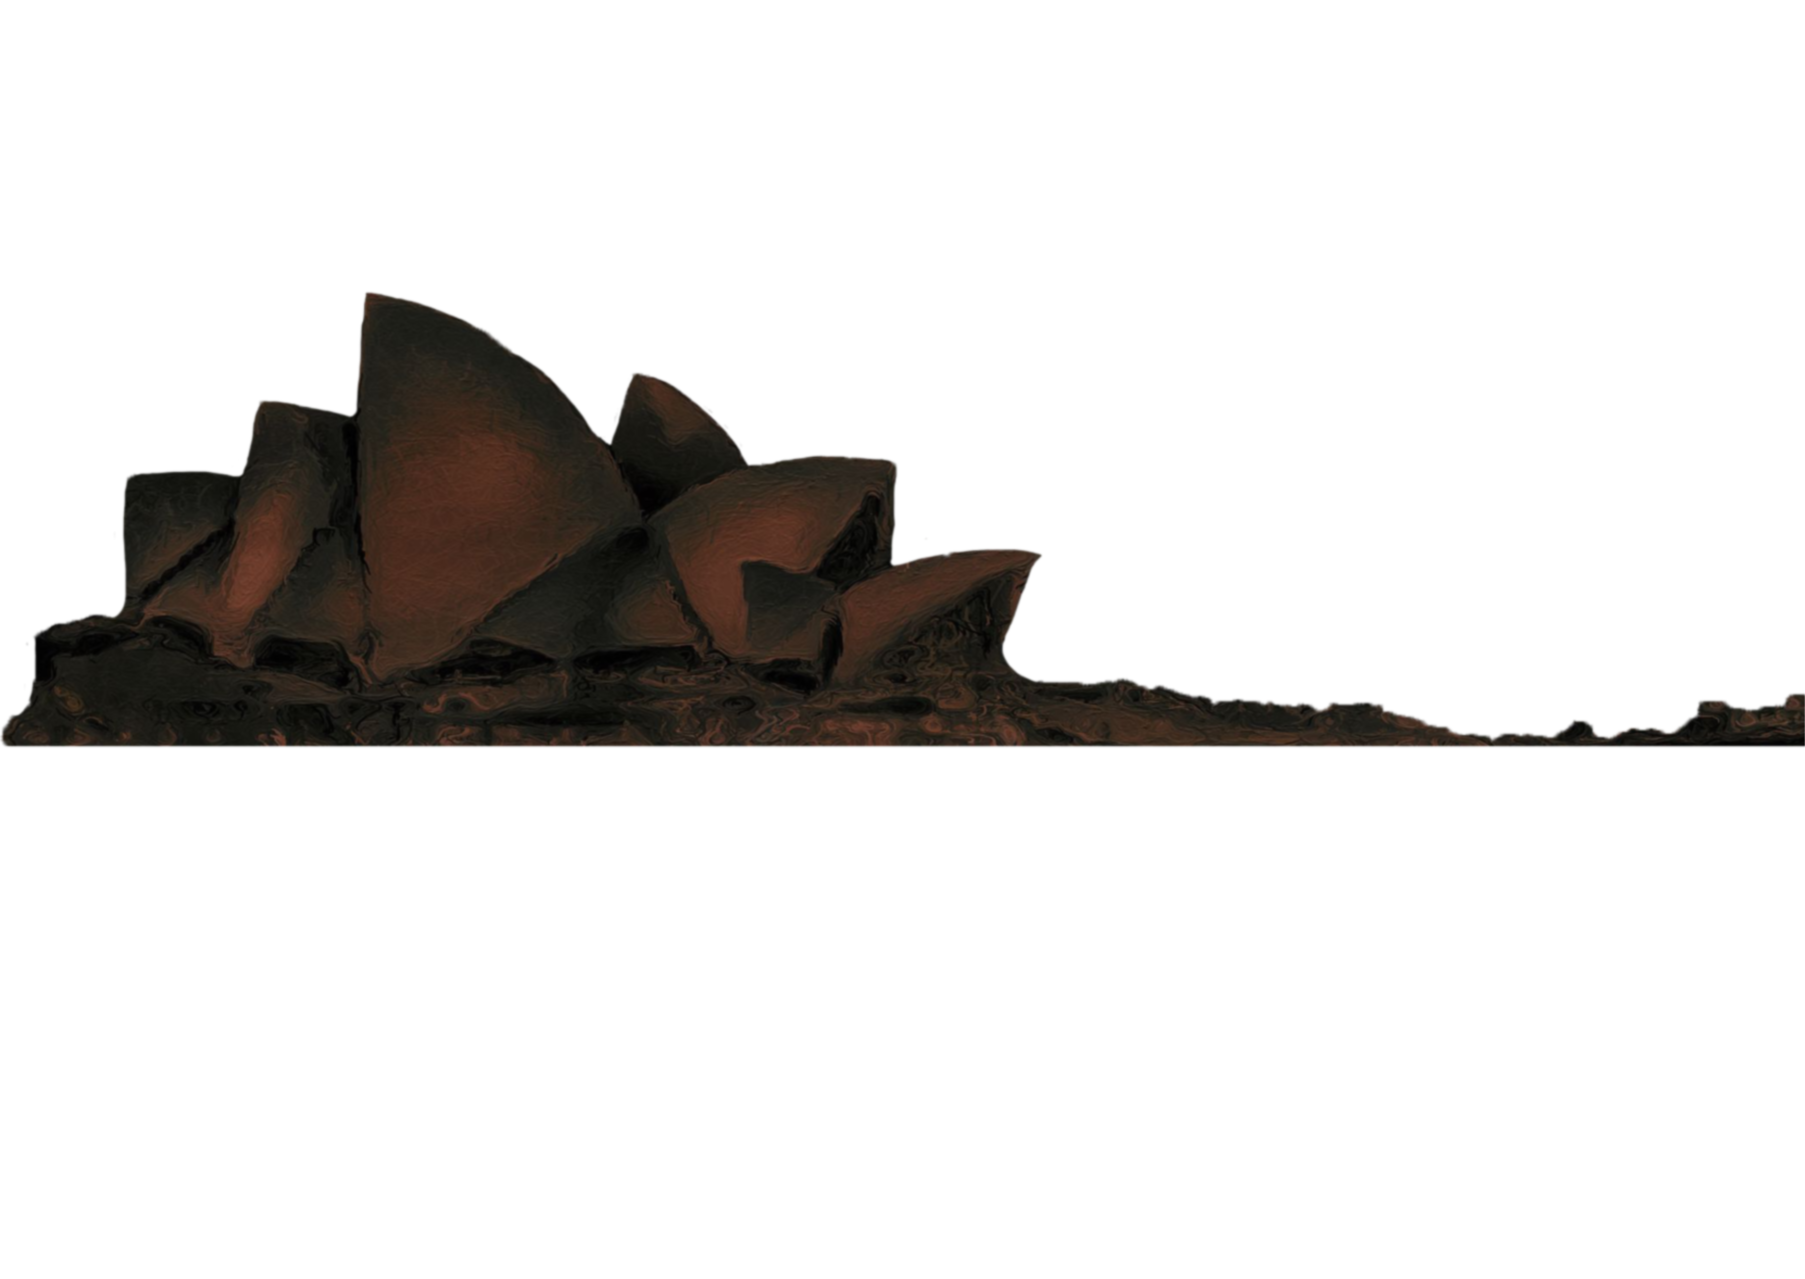
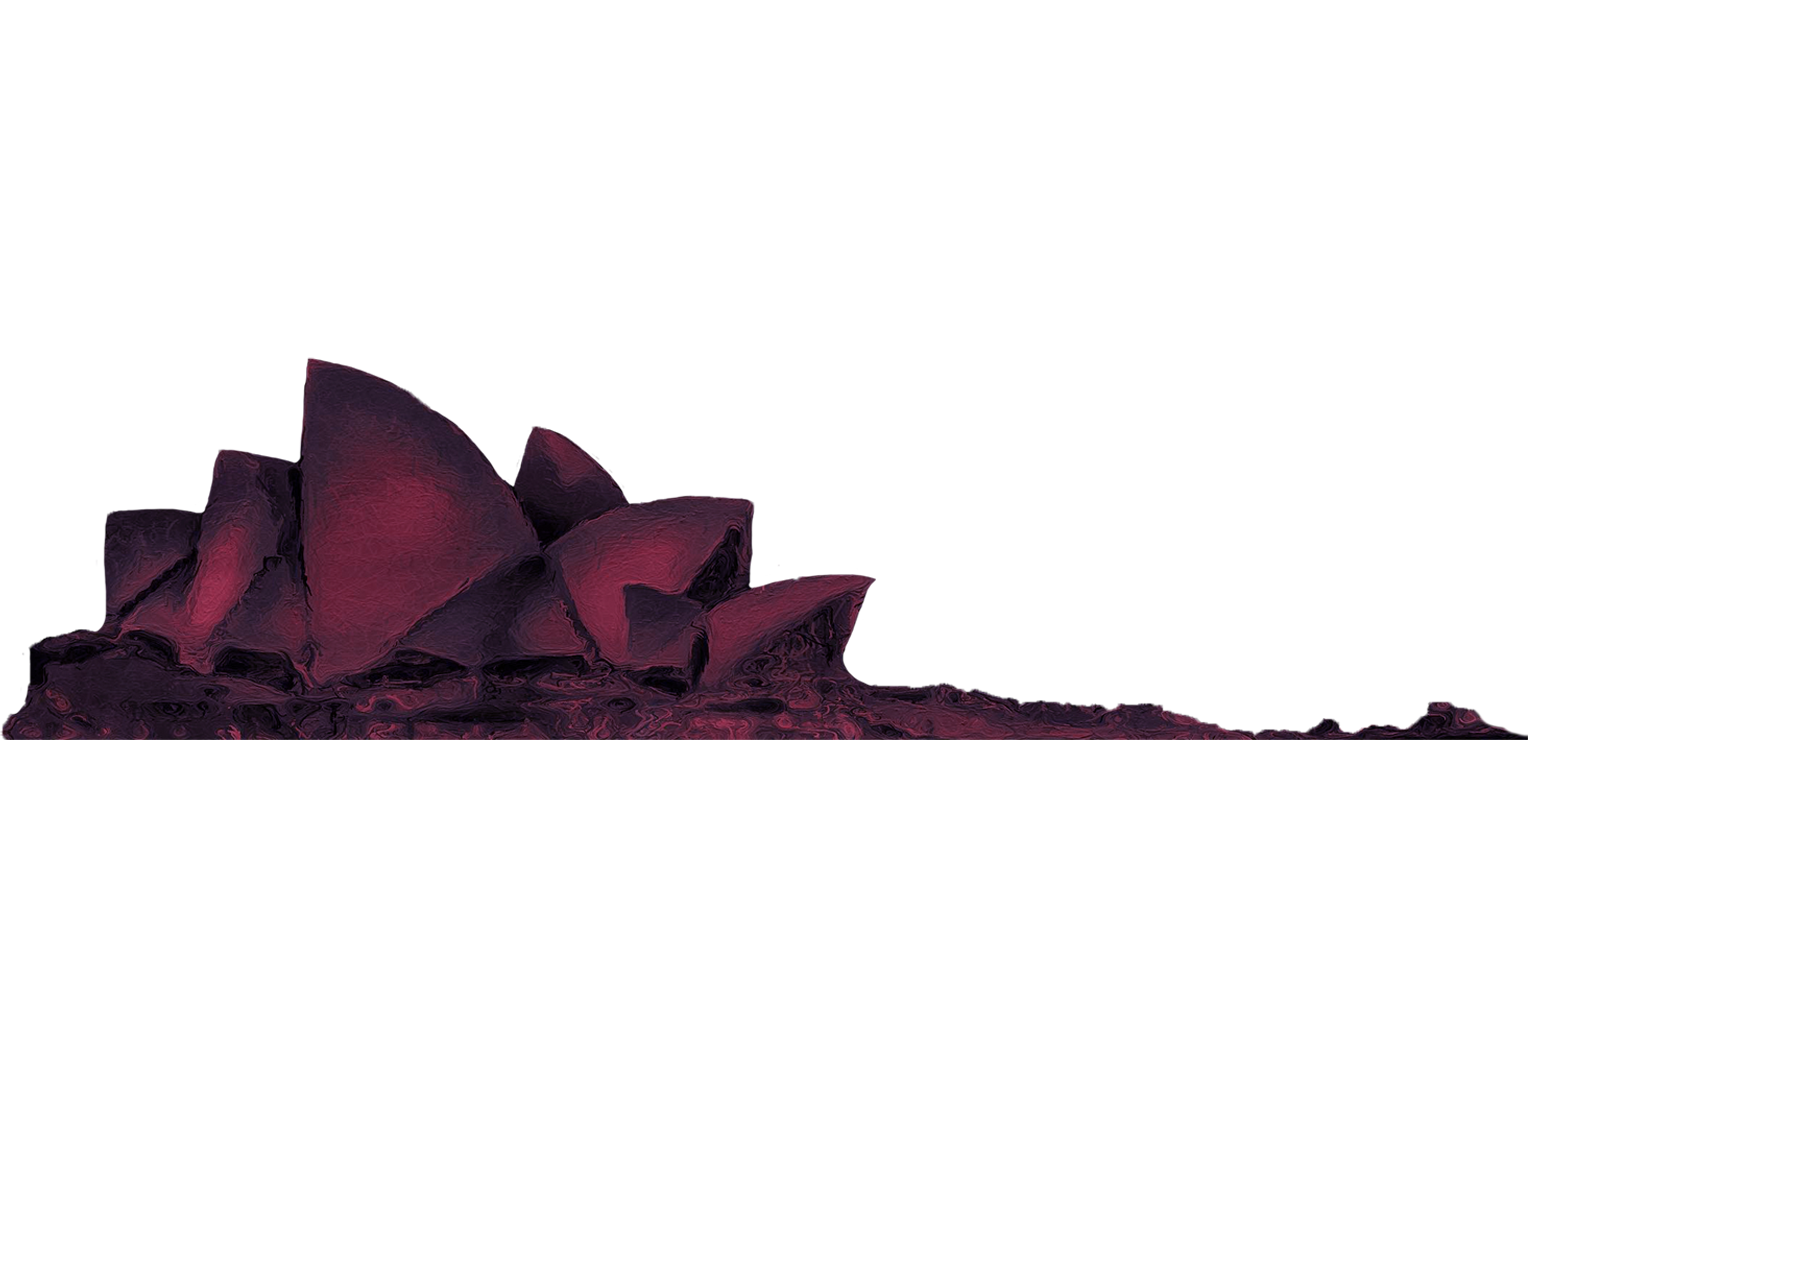
Time Based -----Finallllllllll
Replaced the main body of the building, as well as the reflection, to be more similar to the original rendering, and then standardised the annotations to be the same as the group code.

Changed region(s): [[0.0, 0.2134, 1.0, 0.6099]]

diff --git a/sketch.js b/sketch.js
@@ -1,12 +1,12 @@
 let sky, sea, reflection, main;
-let size = 10; // Rectangle size
+let size = 10; // Size of rectangle 
 let skyRects = []; // Store rectangles for the sky part
 let seaRects = []; // Store rectangles for the sea part
 let mainRects = []; // Store rectangles for the main part
 let reflectionRects = []; // Store rectangles for the reflection part
 let transitionTime = 20000; // 20 seconds transition time
 let startTime; // Record the start time
-let finalNightProgress = 0.8; // Control the final night effect progress to avoid complete darkness
+let finalNightProgress = 0.8; // Control the final night effect progress to avoid 
 
 function preload() {
     // Preload images
@@ -24,7 +24,7 @@ function setup() {
     angleMode(DEGREES); // Set angle mode to degrees
     rectMode(CENTER); // Set rectangle drawing mode to be centered
     noStroke(); // No border for rectangles
-    rectInit();  // Initialize rectangles
+    rectInit(); // Initialize rectangles
     startTime = millis(); // Record start time
 }
 
@@ -40,14 +40,18 @@ function rectInit() {
     sea.loadPixels();
     reflection.loadPixels();
     main.loadPixels();
-  
-    // Iterate over the entire canvas to create rectangles based on pixel data
+
+    // Get the pixel indices of a specific RGB value of a image, and draw rectangles
+    // We got the code reference this website:
+    // https://editor.p5js.org/iscodd/sketches/7-_pQbU9G 
+    // https://stackoverflow.com/questions/24689403/index-a-pixel-using-one-loop-or-two-loops
     for (let x = 0; x < width; x += size / 2 ) {
         for (let y = 0; y < height; y += size / 2) {
             let index = (x + y * width) * 4; // Calculate the index in the pixel array
 
             // Sky Rectangles
             if (sky.pixels[index + 3] > 0) { // Check if the alpha value is greater than 0
+                // Speed up the operation so that the program does not have to calculate the blank part of the image
                 skyRects.push(new Rect(
                     x, y,
                     sky.pixels[index],
@@ -103,10 +107,11 @@ function draw() {
     let elapsedTime = millis() - startTime;  // Calculate elapsed time
     let progress = constrain(elapsedTime / transitionTime, 0, finalNightProgress); // Control progress to avoid complete darkness
 
+
     // Draw all rectangles representing the sky part
     for (let i = 0; i < skyRects.length; i++) {
-        skyRects[i].move(progress);
-        skyRects[i].drawRect();
+        skyRects[i].move(progress); 
+        skyRects[i].drawRect(); // Draw the rectangle
     }
 
     // Draw all rectangles representing the sea part
@@ -128,21 +133,25 @@ function draw() {
     }
 }
 
-// Rectangle class with gradual transition effect
+// Rectangle class, used to store data for each rectangle and implement drawing and movement logic
+// We got the code reference this website:
+// https://editor.p5js.org/Jaekook/sketches/SywJ5wg57
+// https://p5js.org/reference/p5/class/
 class Rect {
+    // Data for a class is a collection of variables
     constructor(x, y, r, g, b, a, part) {
-        this.x = x; // Rectangle x-coordinate
-        this.y = y; // Rectangle y-coordinate
-        this.startR = r; // Initial red value
-        this.startG = g; // Initial green value
-        this.startB = b; // Initial blue value
-        this.a = a; // Alpha (transparency)
-        this.part = part; // Part type (sky, sea, reflection, or building)
+        this.x = x; // x-coordinate of the rectangle
+        this.y = y; // y-coordinate of the rectangle
+        this.startR = r; // Initial Red value
+        this.startG = g; // Initial Green value
+        this.startB = b; // Initial Blue value
+        this.a = a; // Alpha (transparency) value
+        this.part = part; // Part of the image the rectangle belongs to
         this.offsetX = random(-2, 2);  // Random horizontal offset to simulate brushstrokes
         this.offsetY = random(-2, 2); // Random vertical offset
 
         // Set night colors for each part
-        if (this.part === "sky") {
+         if (this.part === "sky") {
             this.endColor = color(20, 30, 60); // Night sky color
         } else if (this.part === "sea" || this.part === "reflection") {
             this.endColor = color(20, 30, 50, random(100, 150)); // Darker sea color with slight highlights
@@ -152,6 +161,7 @@ class Rect {
         }
     }
 
+  
     // Move function to calculate color transition effect
     move(progress) {
         let targetColor;
@@ -169,13 +179,14 @@ class Rect {
         this.b = blue(targetColor);
     }
 
+
     drawRect() {
-        push();
-        noStroke();
+        push(); // Save the current drawing settings
+        noStroke(); // No border for the rectangle
         fill(this.r, this.g, this.b, this.a * random(0.8, 1)); // Apply color with slight transparency variation
         translate(this.x + this.offsetX, this.y + this.offsetY); // Offset to simulate brushstroke effect
         rotate(random(-0.1, 0.1)); // Slight rotation for randomness
-        rect(0, 0, size + random(-1, 1), size + random(-1, 1)); // Draw rectangle with slight size variation
-        pop();
+        rect(0, 0, size + random(-1, 1), size + random(-1, 1)); // Draw rectangle 
+        pop(); // Restore the previous drawing settings
     }
 }
